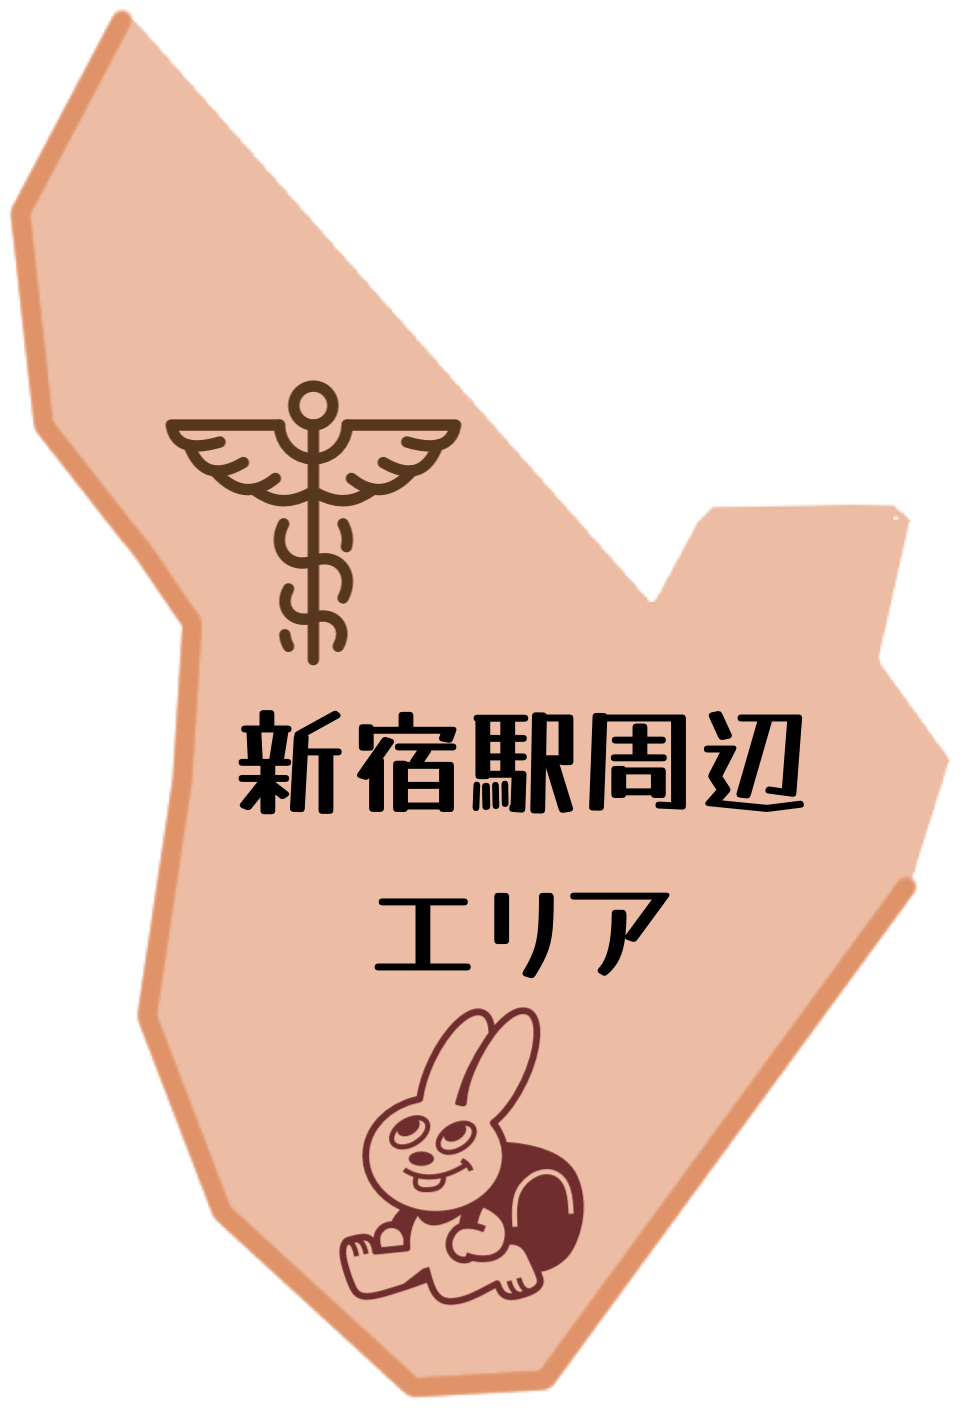
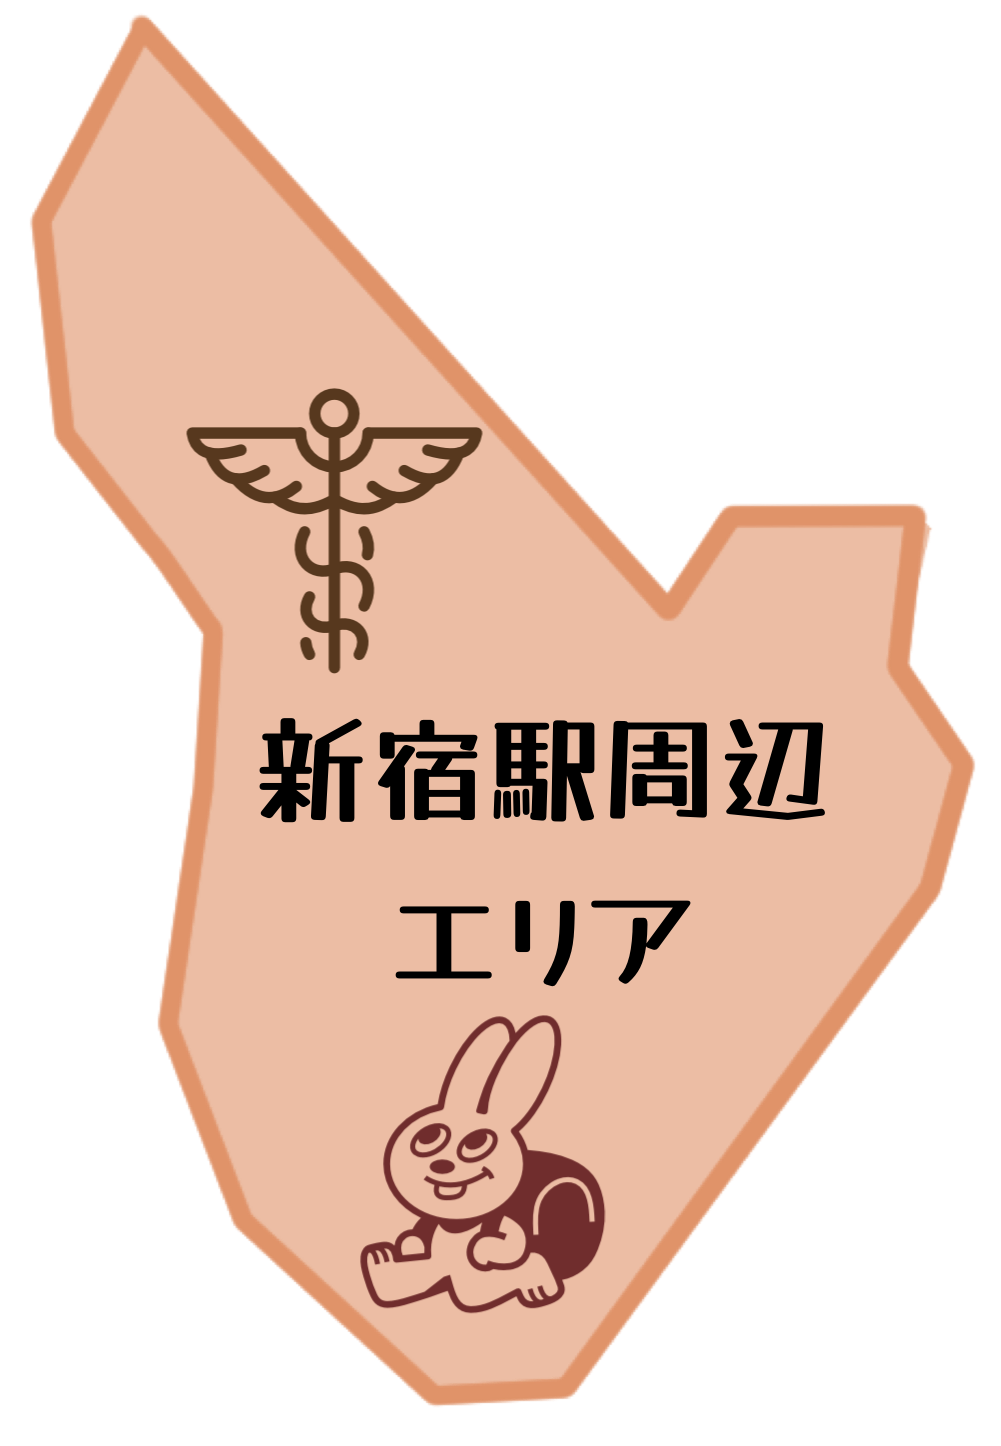
mapの新宿区の部分を仮修正、マップ画像変更

Changed region(s): [[0.0, 0.0, 0.9917, 0.9986], [0.2479, 0.4993, 0.8368, 0.5929]]

diff --git a/lib/screen/Map.dart b/lib/screen/Map.dart
@@ -37,7 +37,7 @@ class MapPageScreens extends StatelessWidget {
           Container(
             decoration: BoxDecoration(
               image: DecorationImage(
-                image: AssetImage('assets/splash_image.jpg'), // 背景画像のパス
+                image: AssetImage('assets/rank_back.jpg'), // 背景画像のパス
                 fit: BoxFit.cover,
               ),
             ),
@@ -50,18 +50,27 @@ class MapPageScreens extends StatelessWidget {
                 children: [
                   Container(
                     decoration: BoxDecoration(
-                      color: const Color.fromARGB(255, 164, 252, 255),
-                      borderRadius: BorderRadius.circular(20),
-                      border: Border.all(color: Colors.blue),
+                      color: Colors.white,
+                      borderRadius: BorderRadius.circular(15),
+                      border: Border.all(
+                        color: Color.fromARGB(255, 52, 152, 219),
+                        width: 2,
+                      ),
                     ),
+                    padding: EdgeInsets.symmetric(vertical: 10, horizontal: 20),
                     child: Text(
                       '新宿区',
-                      style: TextStyle(fontSize: 44),
+                      style: TextStyle(
+                        fontSize: 36,
+                        fontWeight: FontWeight.bold,
+                        color: Color.fromARGB(255, 52, 152, 219),
+                        letterSpacing: 1.5,
+                      ),
                     ),
                   ),
                   Positioned(
-                    left: 98,
-                    top: 183,
+                    left: 97,
+                    top: 184,
                     child: GestureDetector(
                       onTap: () {
                         Navigator.push(
@@ -77,8 +86,8 @@ class MapPageScreens extends StatelessWidget {
                     ),
                   ),
                   Positioned(
-                    left: 201,
-                    top: 103,
+                    left: 205,
+                    top: 100,
                     child: GestureDetector(
                       onTap: () {
                         Navigator.push(
@@ -88,7 +97,7 @@ class MapPageScreens extends StatelessWidget {
                       },
                       child: Image.asset(
                         'assets/Map(2).png', //神楽坂
-                        width: 130,
+                        width: 120,
                         height: 116,
                       ),
                     ),
@@ -128,8 +137,8 @@ class MapPageScreens extends StatelessWidget {
                     ),
                   ),
                   Positioned(
-                    left: 183,
-                    top: 203,
+                    left: 185,
+                    top: 186,
                     child: GestureDetector(
                       onTap: () {
                         Navigator.push(
@@ -139,8 +148,8 @@ class MapPageScreens extends StatelessWidget {
                       },
                       child: Image.asset(
                         'assets/Map(5).png', //四谷
-                        width: 138,
-                        height: 116,
+                        width: 130,
+                        height: 150,
                       ),
                     ),
                   ),
